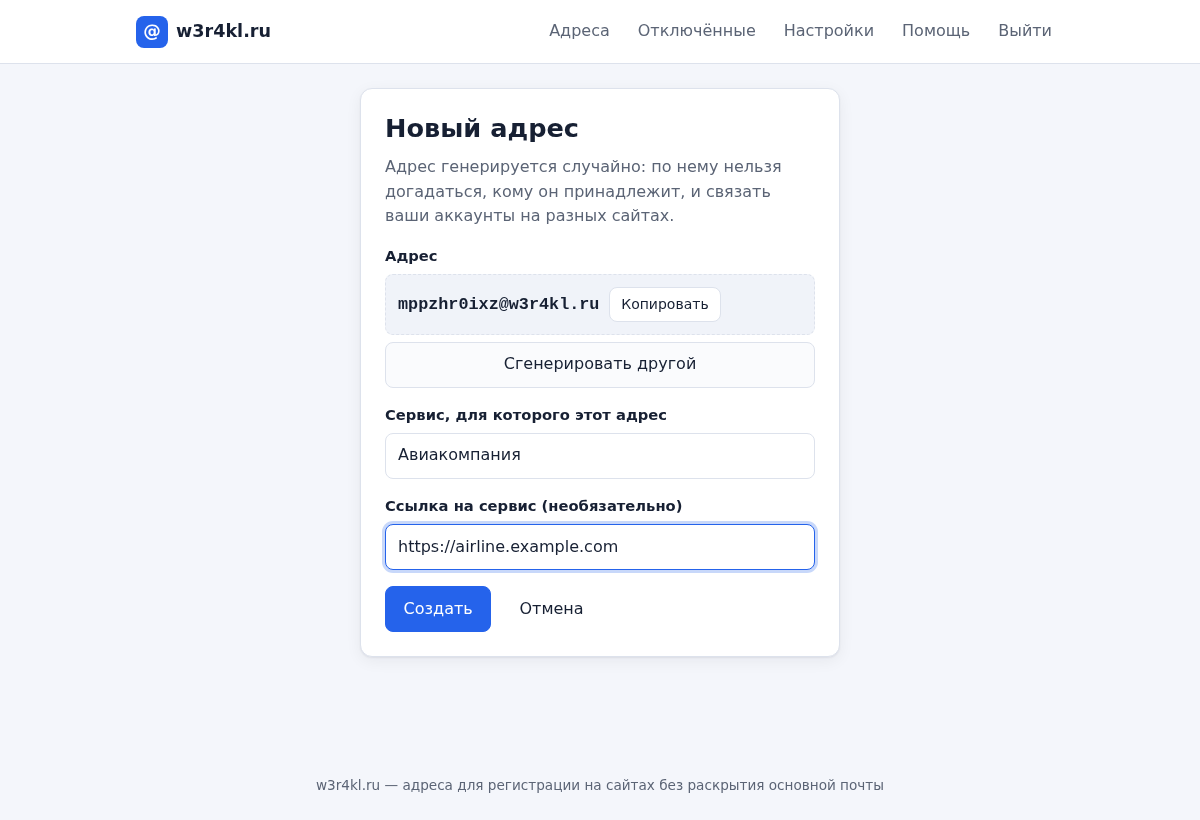
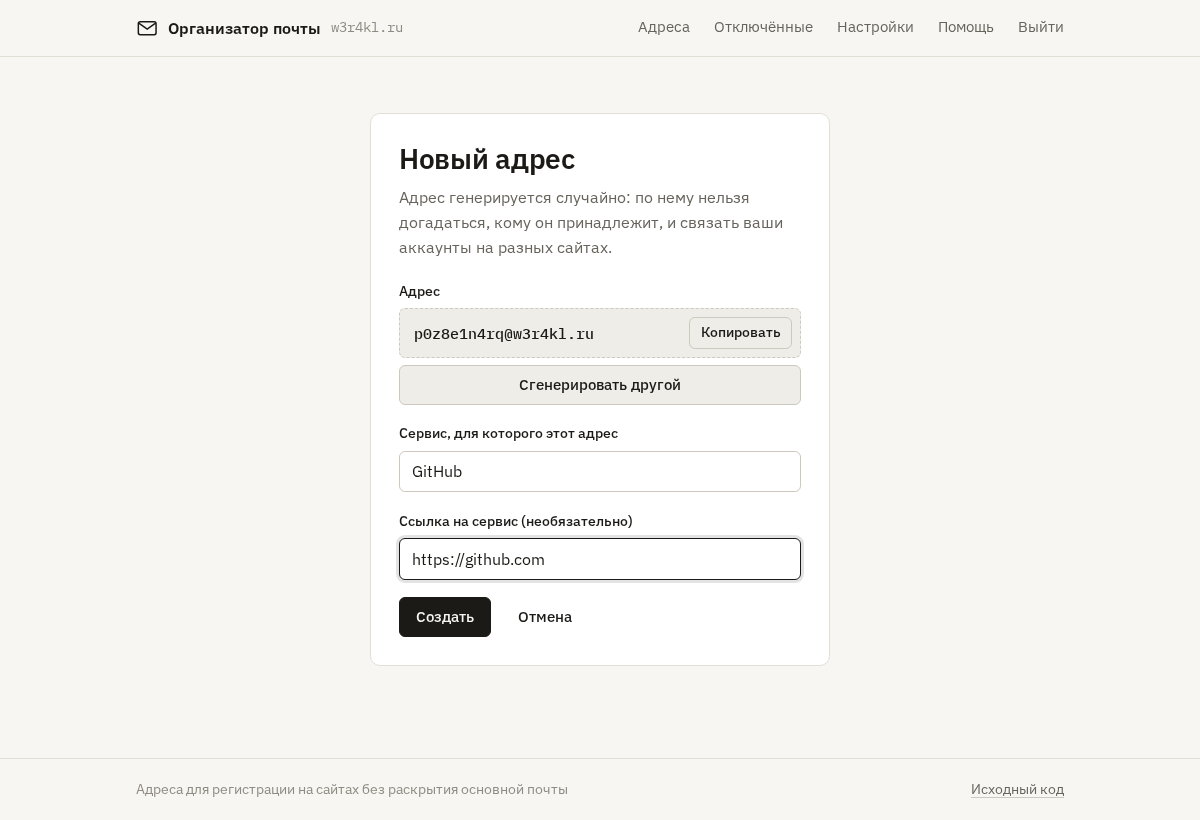
docs: refresh README screenshots for the new design

diff --git a/README.md b/README.md
@@ -36,7 +36,7 @@ The interface is in Russian.
 | Account enumeration | Identical answers for registered and unknown addresses • constant-work password check • a registered address receives a notice instead of a code |
 | Alias abuse | Addresses are generated by the server and handed out as signed, user-bound, expiring tokens • unique constraint • per-user limit |
 | XSS and injection | React escaping • strict Content-Security-Policy without inline scripts • SQLAlchemy parameters • service links limited to http(s) without credentials |
-| Information leaks | JSON errors without internals • no secrets in logs • no third-party requests (system fonts; the 2FA QR code is rendered in the browser) |
+| Information leaks | JSON errors without internals • no secrets in logs • no third-party requests (fonts are bundled and self-hosted; the 2FA QR code is rendered in the browser) |
 | Misconfiguration | Refuses to start without a strong `SECRET_KEY` • debug mode off by default • CORS off by default • non-root containers • Postfix role limited to 5 columns |
 
 ## Architecture
